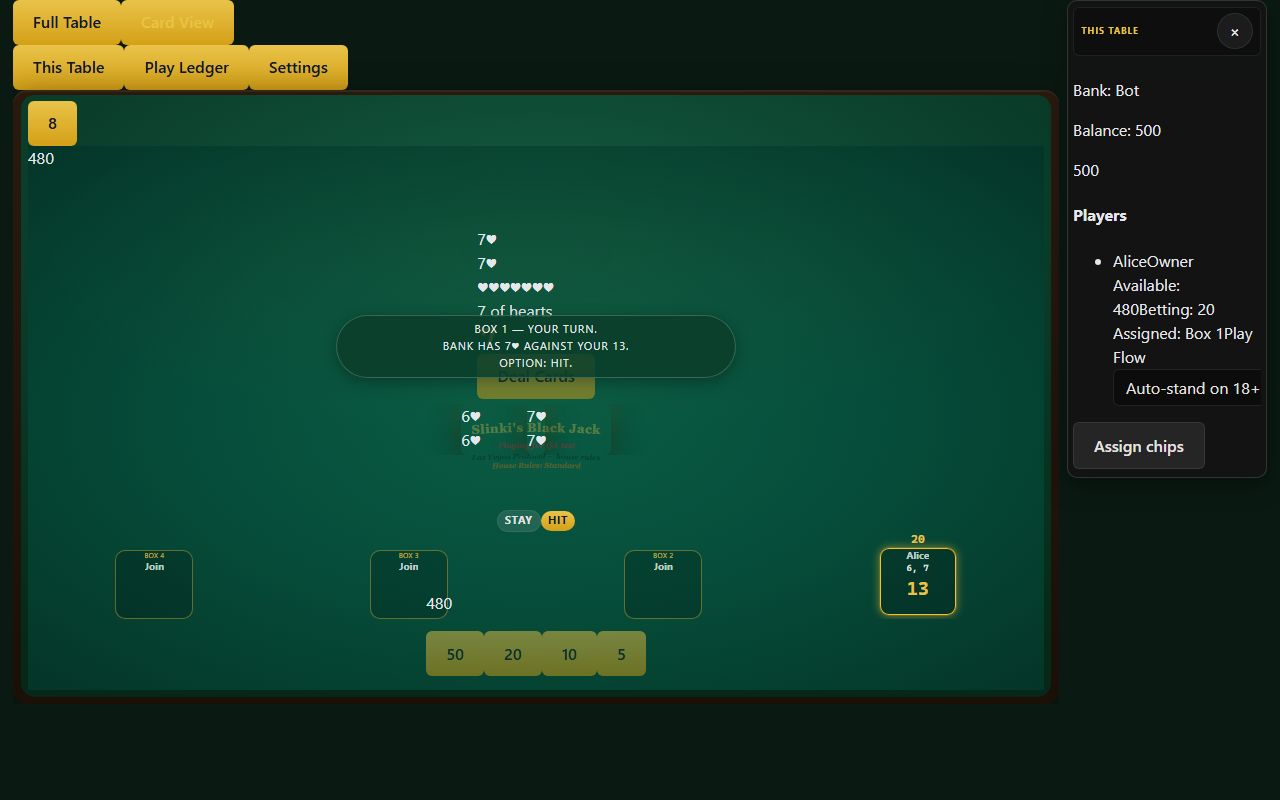
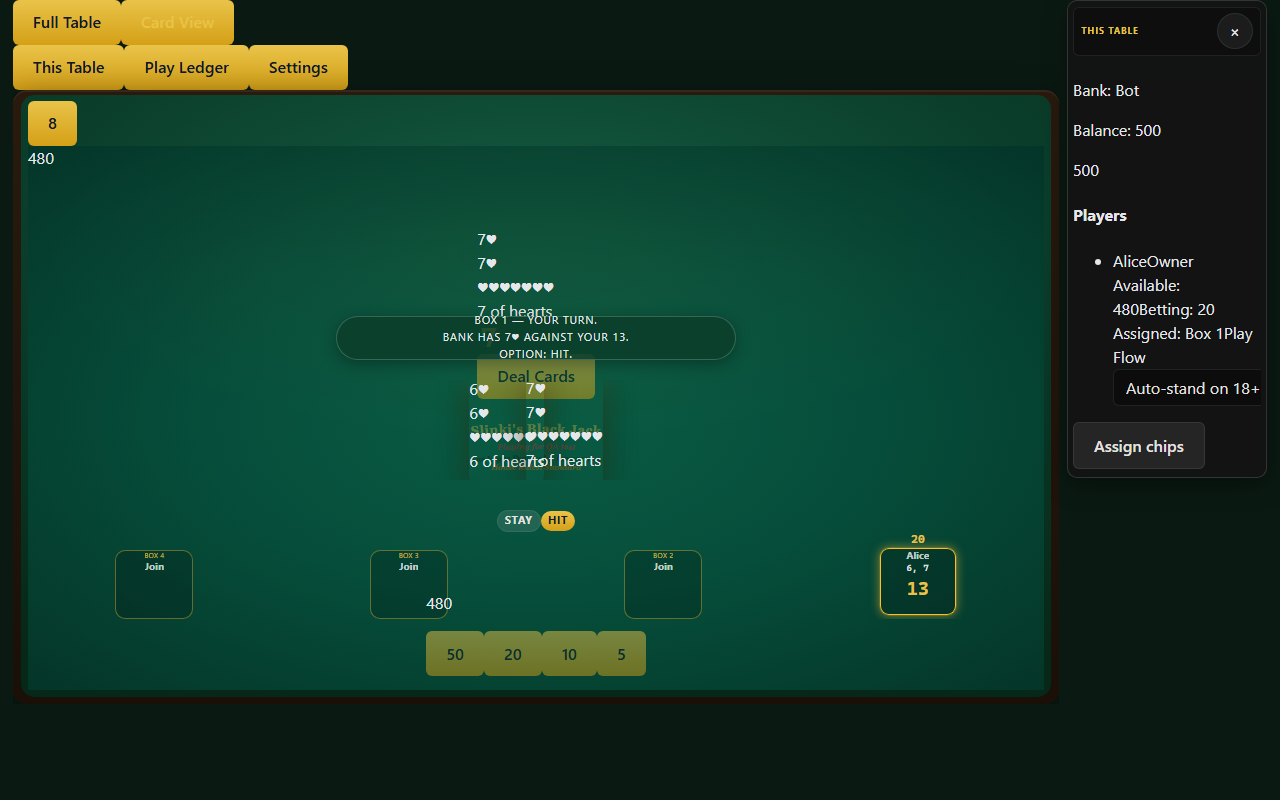
Fix desktop betting cloth alignment and card view hero visibility

Changed region(s): [[0.3438, 0.375, 0.5, 0.5938]]

diff --git a/src/styles/bj-card-desktop-hero-area.css b/src/styles/bj-card-desktop-hero-area.css
@@ -2,6 +2,7 @@
  * Desktop Card View — cards-area hero internals only (.bj-card-desktop-hero*).
  * Shell cards-zone geometry: bj-blackjack-table-shell.css (all phases identical).
  * Cloth/title opacity: bj-full-table-card-area.css (content only).
+ * Hero card sizing: shell tokens (--bj-card-hero-card-*) + container fit.
  */
 
 @media (min-width: 721px) {
@@ -39,7 +40,7 @@
     display: flex;
     flex-direction: row;
     flex-wrap: nowrap;
-    align-items: flex-end;
+    align-items: center;
     justify-content: center;
     width: 100%;
     max-width: 100%;
@@ -52,7 +53,7 @@
   .bj-view-card-desktop .bj-card-desktop-hero__card-wrap {
     flex: 0 0 auto;
     display: flex;
-    align-items: flex-end;
+    align-items: center;
     justify-content: center;
   }
 
@@ -61,10 +62,26 @@
   }
 
   .bj-view-card-desktop .bj-card-desktop-hero__card.ds-card--hero {
-    width: min(5.25rem, 42vw);
-    max-height: 3.2rem;
+    width: auto;
+    max-width: min(var(--bj-card-hero-card-width), 100%);
+    max-height: min(var(--bj-card-hero-card-max-height), 100%);
     height: auto;
+    aspect-ratio: var(--bj-card-hero-card-aspect-ratio, 5 / 7);
     flex: 0 0 auto;
+    box-sizing: border-box;
+  }
+
+  @container bj-hero-cards (min-height: 1px) {
+    .bj-view-card-desktop .bj-card-desktop-hero__card.ds-card--hero {
+      max-width: min(var(--bj-card-hero-card-width), 52cqw);
+      max-height: min(
+        var(--bj-card-hero-card-max-height),
+        54cqh,
+        calc(100% - 0.85rem)
+      );
+      width: auto;
+      height: auto;
+    }
   }
 
   .bj-view-card-desktop

diff --git a/src/components/cardViewHeroClip.test.tsx b/src/components/cardViewHeroClip.test.tsx
@@ -57,6 +57,12 @@ describe('Desktop Card View hero card clipping guards', () => {
     expect(HERO_AREA_CSS).toMatch(
       /\.bj-view-card-desktop \.bj-card-desktop-hero__fan[\s\S]*align-items:\s*center/,
     );
+    expect(HERO_AREA_CSS).toMatch(
+      /\.bj-view-card-desktop \.bj-card-desktop-hero__card\.ds-card--hero[\s\S]*max-height:\s*min\(var\(--bj-card-hero-card-max-height\), 100%\)/,
+    );
+    expect(HERO_AREA_CSS).toMatch(
+      /\.bj-view-card-desktop \.bj-card-desktop-hero__card\.ds-card--hero[\s\S]*aspect-ratio:\s*var\(--bj-card-hero-card-aspect-ratio/,
+    );
     expect(LAYOUT_CSS).toMatch(
       /\.bj-view-card-mobile \.bj-table-layout-shell \.bj-table-zone--cards\.bj-cards-area--hero \.bj-phone-view__cards-slot[\s\S]*align-items:\s*flex-start/,
     );
@@ -64,7 +70,7 @@ describe('Desktop Card View hero card clipping guards', () => {
       /\.bj-view-card-desktop[\s\S]*\.bj-card-desktop-hero__card-wrap[\s\S]*align-items:\s*center/,
     );
     expect(HERO_AREA_CSS).toMatch(
-      /\.bj-view-card-desktop \.bj-table-layout-shell \.bj-table-zone--cards\.bj-cards-area--hero[\s\S]*height:\s*100%/,
+      /\.bj-view-card-desktop \.bj-card-desktop-hero[\s\S]*height:\s*100%/,
     );
   });
 });

diff --git a/src/styles/bj-full-table-card-area.css b/src/styles/bj-full-table-card-area.css
@@ -434,15 +434,6 @@
     --bj-cloth-svg-max-height: 62%;
   }
 
-  .bj-view-full-desktop
-    .bj-table-layout-shell
-    .bj-table-zone--cards.bj-cards-area--table
-    > .bj-felt-cloth-layer {
-    align-items: flex-end;
-    justify-content: center;
-    padding-bottom: 0.35rem;
-  }
-
   /* Shared cloth band — Full Table + Card View; phase from data-bj-phase on .bj-casino. */
   .bj-view-full-desktop.bj-casino[data-bj-phase='betting']
     .bj-table-layout-shell
@@ -461,7 +452,7 @@
     .bj-table-zone--cards
     .bj-felt-cloth-layer {
     display: flex;
-    align-items: flex-end;
+    align-items: center;
     justify-content: center;
     opacity: 0.92;
     pointer-events: none;

diff --git a/docs/CHANGE_LOG.md b/docs/CHANGE_LOG.md
@@ -43,6 +43,13 @@ before the work is considered complete. This rule is also stated in `.cursorrule
 
 ---
 
+## 2026-06-18 — Desktop betting cloth alignment + Card View hero card visibility
+
+- **Betting cloth:** Shared `align-items: center` for Full Table + Card View in `bj-full-table-card-area.css`; removed Full Table–only `bj-cards-area--table` cloth flex-end override. Cloth/title now centered inside cardsArea (0px title delta between views).
+- **Card View playing cards:** Replaced `max-height: 3.2rem` clip in `bj-card-desktop-hero-area.css` with shell `--bj-card-hero-card-*` tokens + `@container bj-hero-cards` fit; hero z-index 1 above cloth.
+
+---
+
 ## 2026-06-18 — Desktop shell slot unification (betting = playing geometry)
 
 - **Single shell grid:** All desktop phases share play-phase row tokens; bank-info row reserved at `1.5rem`; cards zone stretch identical for `--table` and `--hero`.
